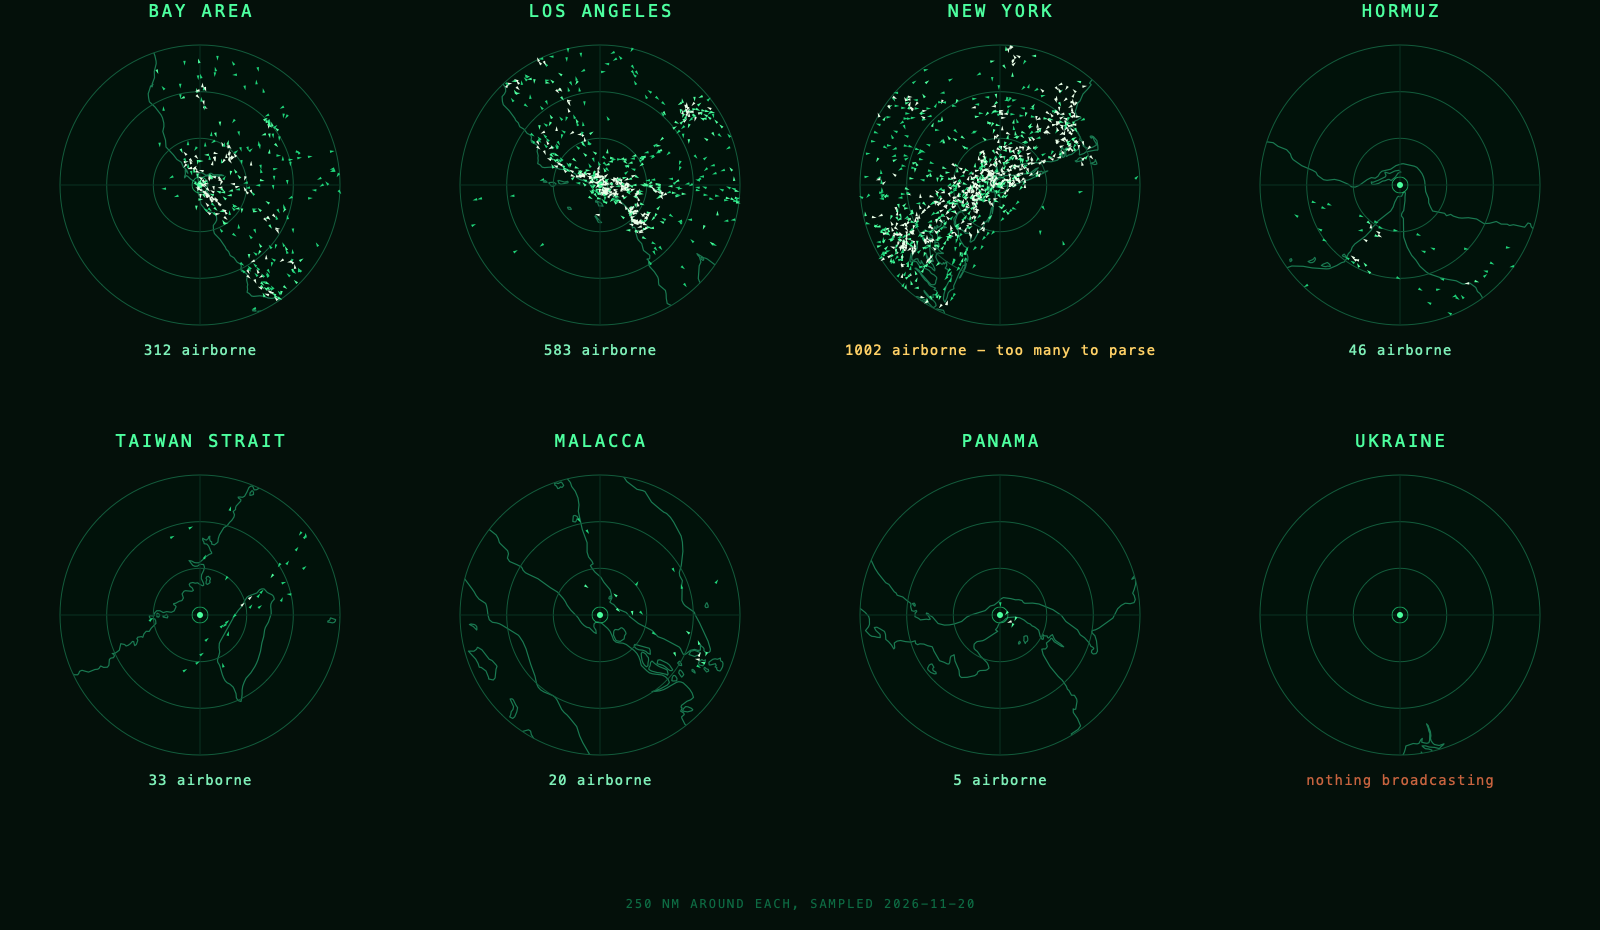
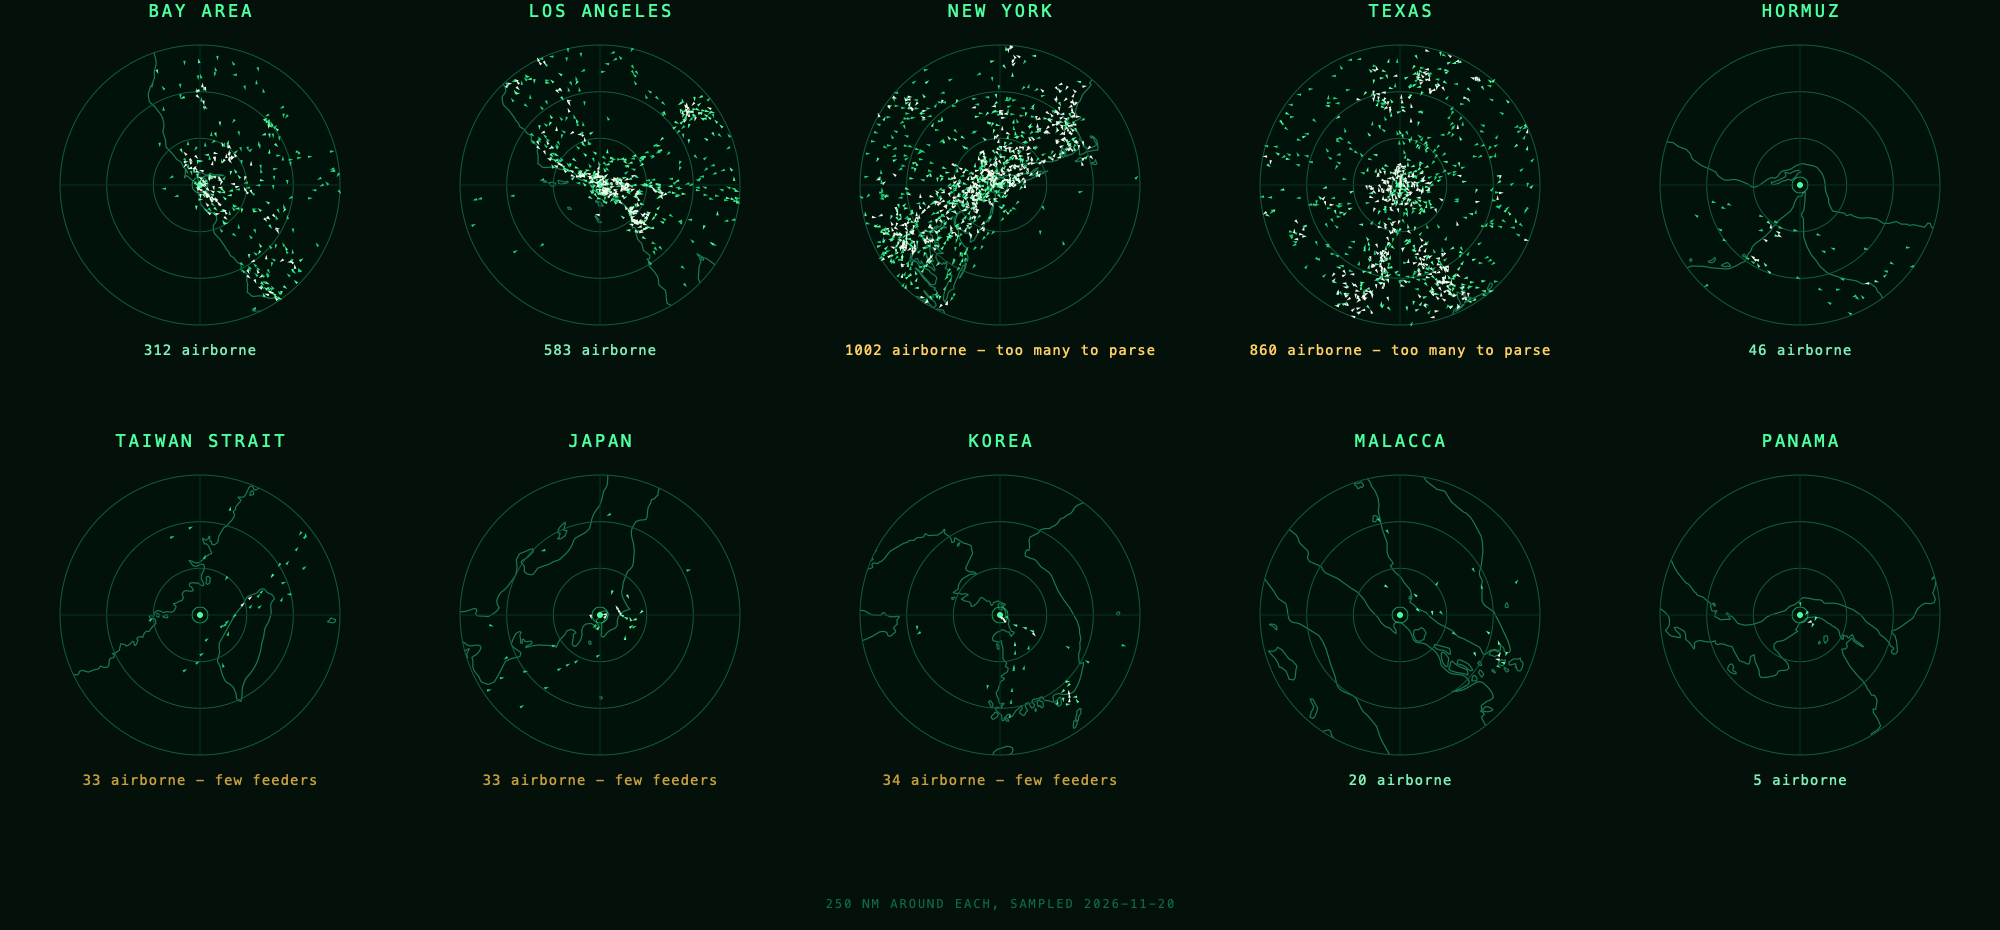
radar: a real rain picture, an ARPA-style ship scope, Texas for Ukraine
Weather switches from a polar grid of Open-Meteo samples to a single
RainViewer tile, because Open-Meteo bills per location: its headers cap
600 per minute and a 441-point grid is 441 calls, which buys about 22
refreshes a day off the free allowance. A tile is one request however
much detail is in it. The mockup is live data, recoloured the way the
firmware would, with the coastline over it. The 24-cell version stays in
the file as the rejected option.

Ships redrawn the way a ship's own radar does it: bearing scale, own-ship
heading line, echo smears with AIS triangles, ten-minute vectors and
past tracks.

Places: Ukraine out (zero aircraft, nothing broadcasts), Texas, Japan and
Korea in. Japan and Korea turn out to be thin for a reason worth
recording -- ADS-B aggregators are volunteer-fed and East Asia has about
a tenth of the US feeder density, confirmed against a second network.

diff --git a/plan/radar.md b/plan/radar.md
@@ -48,8 +48,14 @@ already computed.
 
 ![Ships in the Malacca Strait](assets/radar-ships.png)
 
-*Illustrative: the hulls above are drawn on plausible lane positions, not live
-AIS. Everything else on this page comes from real data.*
+Drawn the way a ship's own ARPA display does it, since that is the look worth
+copying: a bearing scale in degrees around the rim, own-ship heading line, each
+contact as an echo smear with the AIS triangle over it, a vector showing where
+it will be in ten minutes, and a dotted past track. The bottom strip carries
+bearing, range and speed over ground for the ringed target.
+
+*Illustrative: the contacts are on plausible lane positions, not live AIS.
+Everything else in this file comes from real data.*
 
 AIS is a different kind of feed from the plane one. `aisstream.io` is free, but:
 
@@ -70,57 +76,79 @@ different blips"; they are a websocket client plus a deflate negotiation.
 AISHub is not an option at all: it gives API keys only to people who feed it
 their own receiver's data.
 
-### Weather — the cheapest of the three
+### Weather — a real radar picture, from a tile
 
-![Precipitation around the Malacca Strait](assets/radar-weather.png)
+![Rain over the Taiwan Strait](assets/radar-weather.png)
 
-Not rain-radar imagery — that means raster tiles, projection and compositing,
-and RainViewer's terms are personal-use-only anyway. Instead: **sample a polar
-grid from Open-Meteo**, which this firmware already talks to for the weather
-page. It accepts a list of coordinates in one request, so 24 points (8 bearings
-x 3 rings) come back as one 9 KB response in 190 ms with no key, and each wedge
-is coloured by its own `precipitation`.
+That is live RainViewer data, composited and recoloured exactly the way the
+firmware would: one PNG tile, decoded, re-mapped to a green/yellow/red scale,
+masked to the scope, with the coastline drawn over it. The rain southwest of
+Taiwan was really there when it was sampled.
 
-The image above is real: 6 of those 24 cells had rain at Malacca when it was
-sampled. 24 cells is coarse — it tells you rain is to the southeast, not where
-the edge of the squall is — but it is one request against a 10,000/day budget
-rather than 500.
+**This replaces the polar-grid idea, and the reason is a rate limit.** The
+first plan was to sample Open-Meteo on a polar grid, since the firmware already
+talks to it. Open-Meteo does accept many coordinates in one request — 441
+points came back in 150 KB in 338 ms. But its response headers say
+`X-RateLimit-Limit: 600` over a 60-second window, and **it bills per location,
+not per request**: three test grids in one minute (766 points) took the
+remaining quota to zero. A 441-point grid is 441 calls against a 10,000/day
+free allowance — about **22 refreshes a day**. Resolution trades directly
+against refresh rate, and the resolution you can afford looks like this:
+
+![The 24-cell version this replaces](assets/radar-weather-grid.png)
+
+A RainViewer tile costs **one request** no matter how much detail is in it.
+
+What it costs: 11.5 KB for a 256px tile, 32 KB for 512px, no key needed. The
+device has to decode PNG (RGBA8, so a 512px tile is 1 MB decoded — PSRAM
+territory, not internal RAM) and reproject from Web Mercator, which is a dozen
+lines. Zoom is capped: z=7 works, **z=8 returns a "Zoom Level Not Supported"
+placeholder image**, so the tightest useful view is about 40 nm across and
+12 NM range would be showing a blown-up z=7 tile.
+
+Terms: RainViewer's API is personal and educational use only, with attribution
+asked for — hence "RainViewer" in the corner of the mockup. That is fine for a
+gadget on a desk and would not be fine for a product.
 
 ## Where to point it
 
-All eight of the suggested places, 250 nm each, sampled the same afternoon:
+All ten places, 250 nm each, sampled the same afternoon:
 
-![Eight places compared](assets/radar-places.png)
-
-This settles the list, and the answer is that **place and mode are coupled**:
+![Ten places compared](assets/radar-places.png)
 
 | Place | Airborne | Verdict |
 |---|---|---|
-| New York | 1,199 | Too many — 615 KB per refresh |
-| Los Angeles | 755 | Very busy, 375 KB |
-| Bay Area | 449 | Busy, 217 KB |
-| Hormuz | 62 | Thin for planes, interesting for ships |
-| Taiwan Strait | 34 | Thin for planes, the point is the shipping |
-| Malacca | 20 | Likewise |
+| New York | 1,002 | Too many — 615 KB per refresh |
+| Texas (DFW) | 860 | Too many — 476 KB |
+| Los Angeles | 583 | Very busy, 375 KB |
+| Bay Area | 312 | Busy, 217 KB |
+| Hormuz | 46 | Thin for planes, interesting for ships |
+| Korea | 34 | Thin — see below |
+| Taiwan Strait | 33 | Thin — see below |
+| Japan | 33 | Thin — see below |
+| Malacca | 20 | The point here is the shipping |
 | Panama Canal | 5 | Planes: nothing. Ships: the whole point |
-| **Ukraine** | **0** | **Nothing at all** |
 
-Two of these are worth knowing before building anything:
+Three things this settles:
 
-- **Ukraine returns zero aircraft.** Civil airspace is closed and military
-  traffic does not broadcast ADS-B. The page would be an empty green circle.
-  There is no fix on our side — it is what the data is. Worth keeping on the
-  list only once ships are in, and even then AIS in the Black Sea is patchy and
-  routinely spoofed.
-- **New York at 250 nm returns 1,199 aircraft in a 615 KB body.** The weather
-  page's whole body cap is 8 KB. Holding 615 KB is fine in PSRAM; what is not
-  obviously fine is cJSON, which builds a DOM several times the size of the
-  text. This needs measuring on the board before 250 nm ships, and the likely
-  answer is a cap on how many aircraft are kept, taking the nearest N.
+- **East Asia is thin because of who is feeding, not what is flying.** Tokyo
+  returning 33 airborne aircraft inside 250 nm is not believable — Haneda alone
+  moves well over a thousand a day. ADS-B aggregators are fed by volunteers
+  with receivers, and there are far fewer of them in Japan, Korea and Taiwan
+  than in the US. Cross-checked against a completely separate network,
+  `opendata.adsb.fi`, which gave 45 / 43 / 40 for Japan / Korea / Taiwan
+  against 468 for the Bay Area — the same ratio. So a Taiwan or Japan radar
+  page will look quiet, and that is the data, not a bug. The page should never
+  imply it is showing all the traffic.
+- **Texas behaves like New York and Los Angeles**: 860 airborne in a 476 KB
+  body. The big-metro cap applies to it too.
+- **Panama has 5 aircraft.** Picking it in Planes mode is close to an empty
+  screen; it earns its place in the list through Ships, and the page should
+  say "5 aircraft" rather than look broken.
 
-So the place list should be the straits and canals *and* the metros, with the
-understanding that picking Panama in Planes mode shows you almost nothing. The
-page should say "5 aircraft" rather than look broken.
+Ukraine is gone from the list. It returned **zero** aircraft — closed civil
+airspace, and military traffic does not broadcast ADS-B — so there was nothing
+to show and no fix available on our side.
 
 ## Config
 
@@ -129,7 +157,8 @@ settings, which is where the three choices live:
 
 ![Settings](assets/radar-config.png)
 
-- **Range** — `12 NM` / `40 NM` / `250 NM` / `Off`. Off is a real off:
+- **Range** — `12 NM` / `40 NM` / `250 NM` / `Off`. Note that in Weather mode
+  12 NM is a magnified z=7 tile rather than more detail. Off is a real off:
   `muse_page_t.enabled()` is checked before the tile is built, so the page
   leaves the swipe list and its task never starts. No page, no polling.
 - **Show** — `Planes` / `Ships` / `Weather`.
@@ -145,7 +174,9 @@ settings, which is where the three choices live:
 3. Planes first: `esp_http_client` + `cJSON`, the `muse_weather.c` shape, with
    a cap on aircraft kept.
 4. Draw: coastline, rings, blips, the nearest one ringed with a card below.
-5. Weather second — same fetch code, different URL, 24 points, wedges.
+5. Weather second: one RainViewer tile, a PNG decoder, Web Mercator
+   reprojection into the scope, and our own colour ramp over the decoded
+   pixels. Check what LVGL's PNG decoder costs in heap before committing.
 6. Ships last, and only if the websocket question answers well.
 
 ## Findings
@@ -161,17 +192,30 @@ settings, which is where the three choices live:
 - **500 requests per IP per day**, from `x-ratelimit-limit: 500, 500;w=86400`
   on the live response. Hence polling only while the page is visible —
   *(how: response headers)*
-- **Open-Meteo takes 24 coordinates in one request.** 9 KB, 190 ms, no key, and
-  it returns a list in the order asked — *(how: curl with 24 comma-separated
-  lat/lon pairs; 6 of 24 cells wet at Malacca)*
+- **Open-Meteo bills per location, not per request.** It accepts many
+  coordinates at once (441 points, 150 KB, 338 ms) but the response carries
+  `X-RateLimit-Limit: 600` on a 60-second window, and three grids totalling 766
+  points in one minute drove `X-RateLimit-Remaining` to 0. Against a 10,000/day
+  free allowance a 441-point grid buys ~22 refreshes a day — *(how: response
+  headers while testing 100, 225 and 441-point grids)*
+- **A RainViewer tile is one request at any resolution.** 11.5 KB at 256px,
+  32 KB at 512px, no key, PNG RGBA8. Zoom caps out: z=7 serves data, **z=8
+  returns a 1,370-byte "Zoom Level Not Supported" image** — *(how: fetched
+  tiles for five places at z=6, 7 and 8 and looked at them)*
+- **East Asian ADS-B coverage is roughly a tenth of the US.** Japan 33, Korea
+  34, Taiwan 33 airborne within 250 nm against the Bay Area's 312 — and the
+  same ratio on an unrelated network (adsb.fi: 45 / 43 / 40 against 468). It is
+  feeder density, not traffic — *(how: queried both networks for the same four
+  places within a minute of each other)*
 - **Coastlines are nearly free.** Natural Earth 50m clipped to 250 nm:
   Bay Area 165 points, Hormuz 200, Taiwan Strait 283, Panama 323, Malacca 532,
   New York 601 — 660 to 2,404 bytes each as int16 pairs — *(how: clipped the
   1.6 MB GeoJSON locally and counted)*
 - **`alt_baro` is an int *or* the string `"ground"`.** 98 of 192 aircraft
   within 60 nm of San Jose were parked — *(how: counted in the sample)*
-- **New York at 250 nm is 1,199 aircraft / 615 KB; Ukraine is 0 / 101 bytes** —
-  *(how: the eight-place sample above)*
+- **New York at 250 nm is 1,199 aircraft in a 615 KB body, Texas 911 / 476 KB,
+  and Ukraine 0 in 101 bytes** — *(how: the ten-place sample above, plus
+  Ukraine before it was dropped)*
 - **ESP-IDF has no permessage-deflate.** Nothing in the v6.0.1 component tree
   matches it, and `esp_websocket_client` is not in the tree at all — *(how:
   grepped `~/esp/esp-idf-v6.0.1/components`)*
@@ -195,6 +239,12 @@ settings, which is where the three choices live:
   function.
 - Which place is the default? Bay Area in Planes mode is the one that looks
   alive out of the box.
+- **Does the PNG decoder fit?** A 512px RGBA tile is 1 MB decoded. PSRAM has
+  room, but LVGL's decoder wants measuring on the board before weather mode is
+  promised.
+- Should the device recolour the tile, or is RainViewer's own palette good
+  enough? It has to decode the pixels either way, so recolouring to match the
+  rest of the page is nearly free — the mockup above does it.
 
 ## References
 
@@ -204,6 +254,7 @@ settings, which is where the three choices live:
 - Page contract: `esp32/components/muse/muse_page.h`
 - Data: [adsb.lol](https://api.adsb.lol/v2/point/), [adsb.fi](https://opendata.adsb.fi/),
   [aisstream.io](https://aisstream.io/documentation),
+  [RainViewer](https://www.rainviewer.com/api.html),
   [Open-Meteo](https://api.open-meteo.com/v1/forecast),
   [Natural Earth coastline](https://github.com/nvkelso/natural-earth-vector)
 - Prior art: [Alex-developer/ADSB-Radar](https://github.com/Alex-developer/ADSB-Radar)
